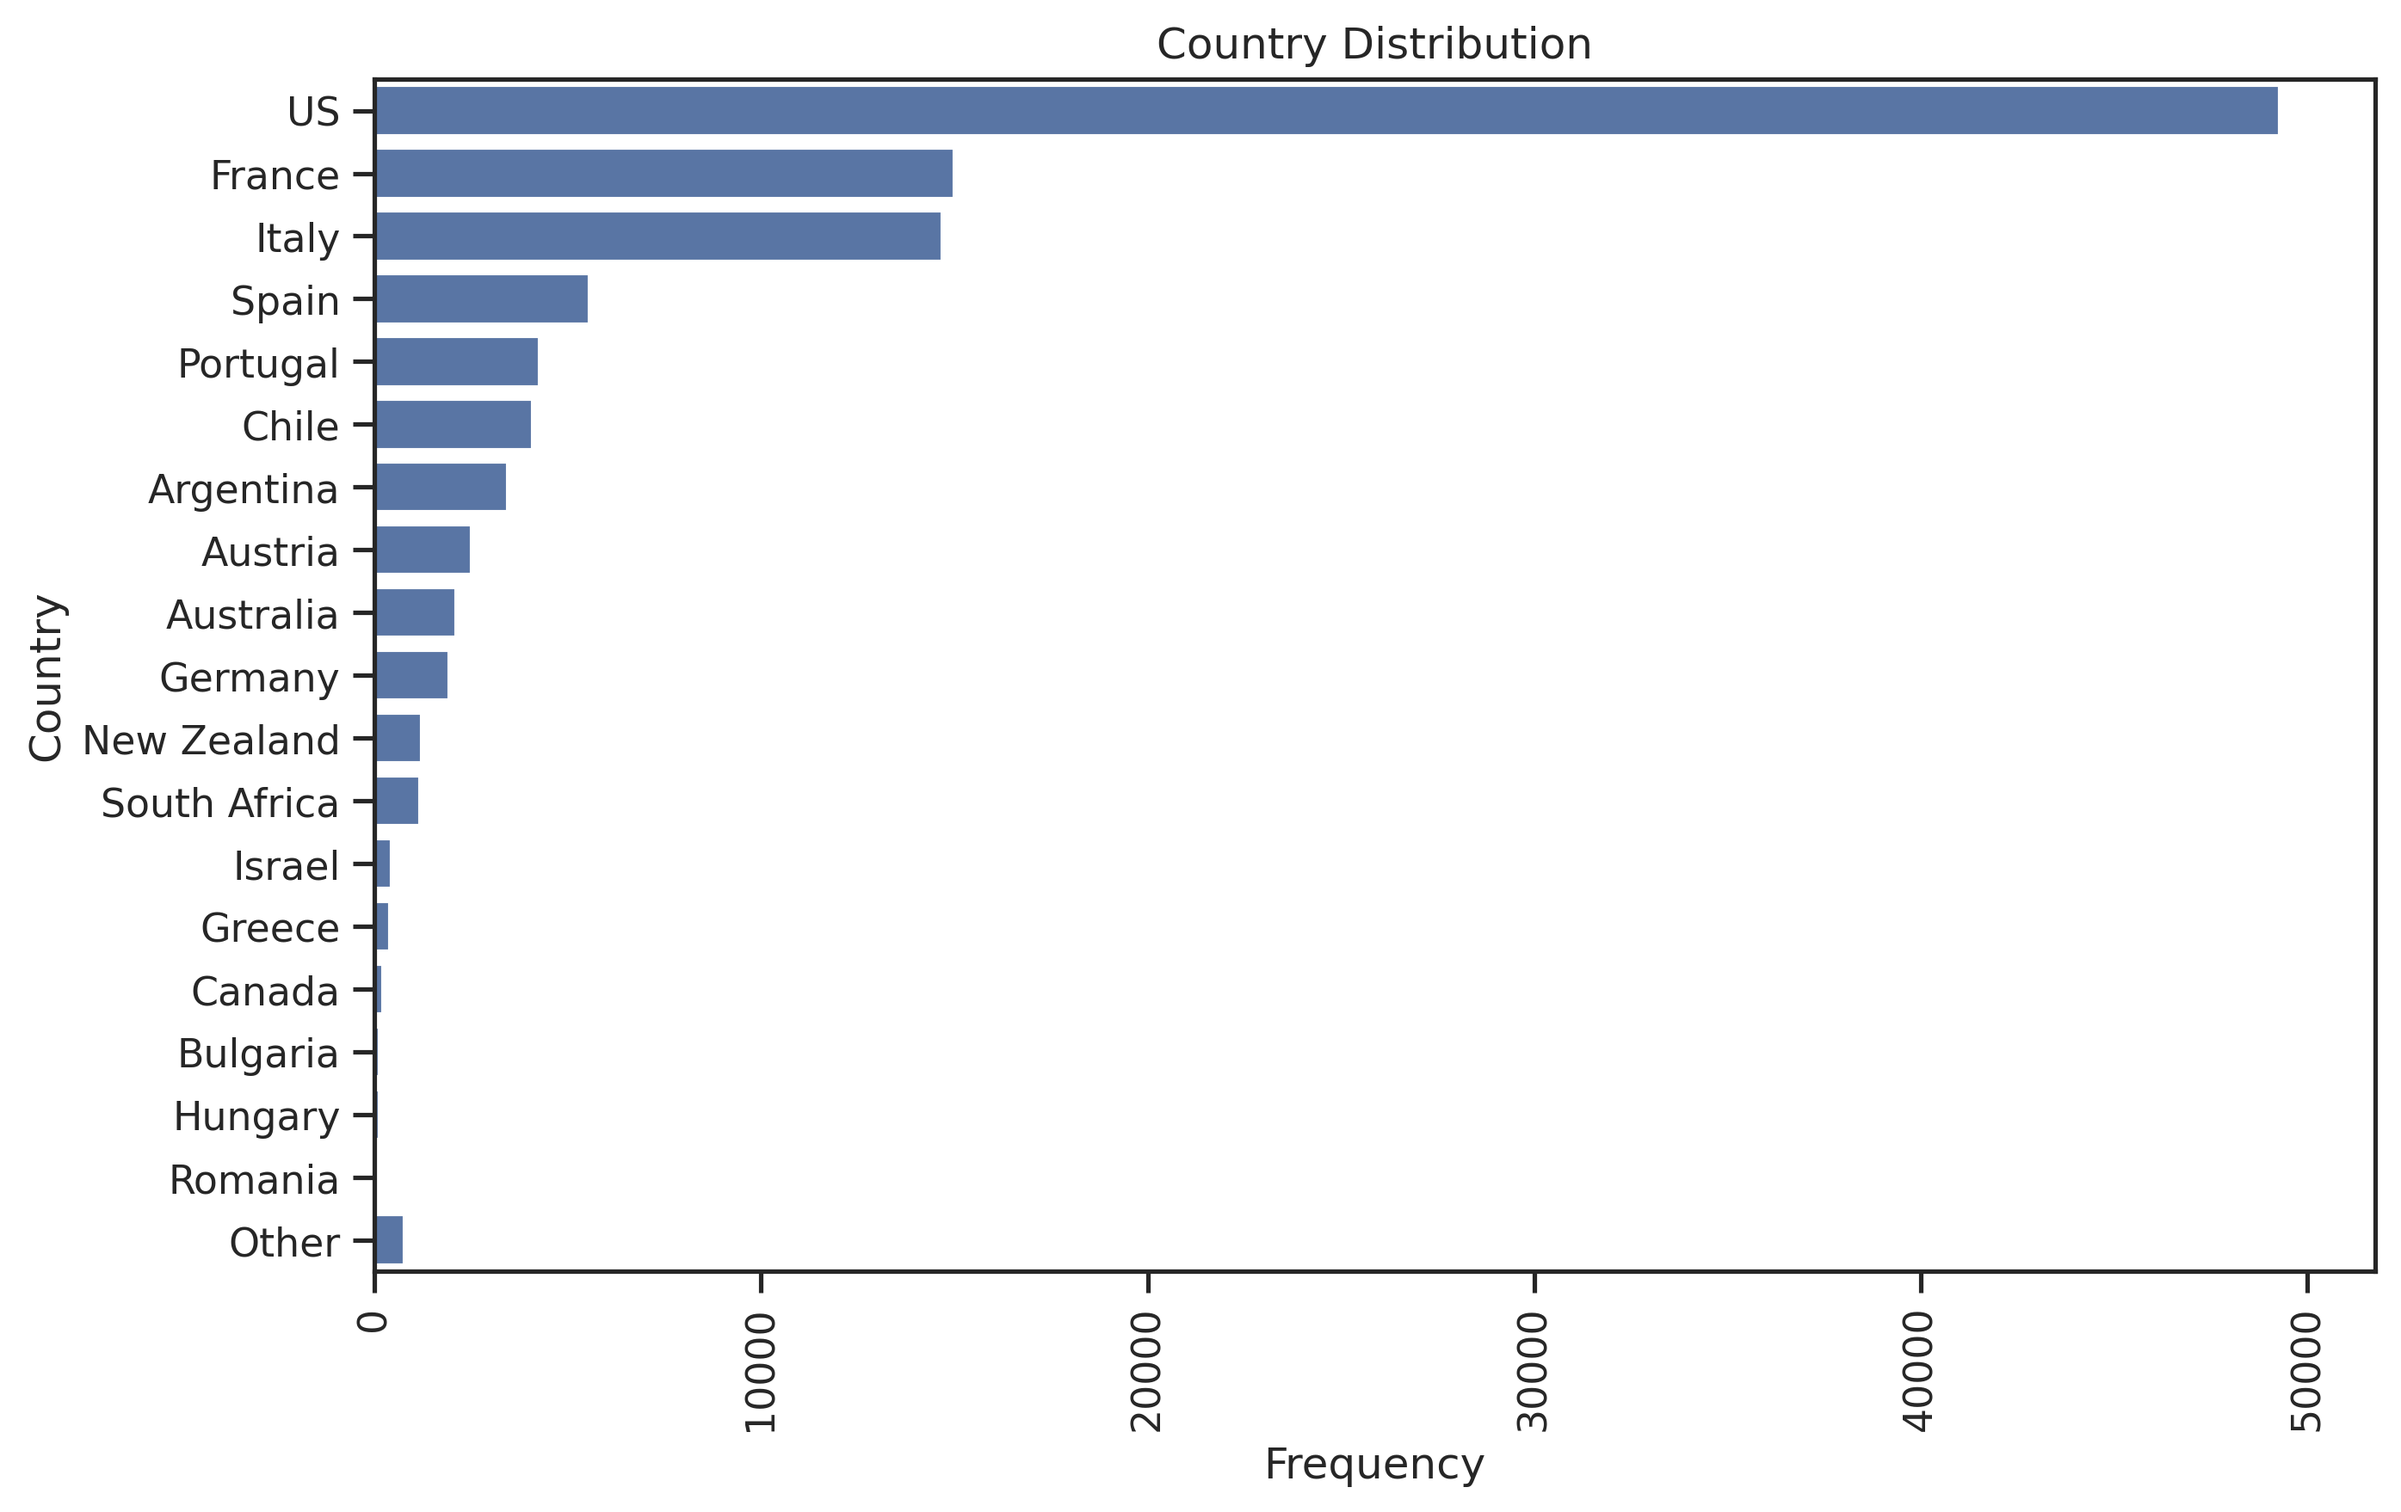
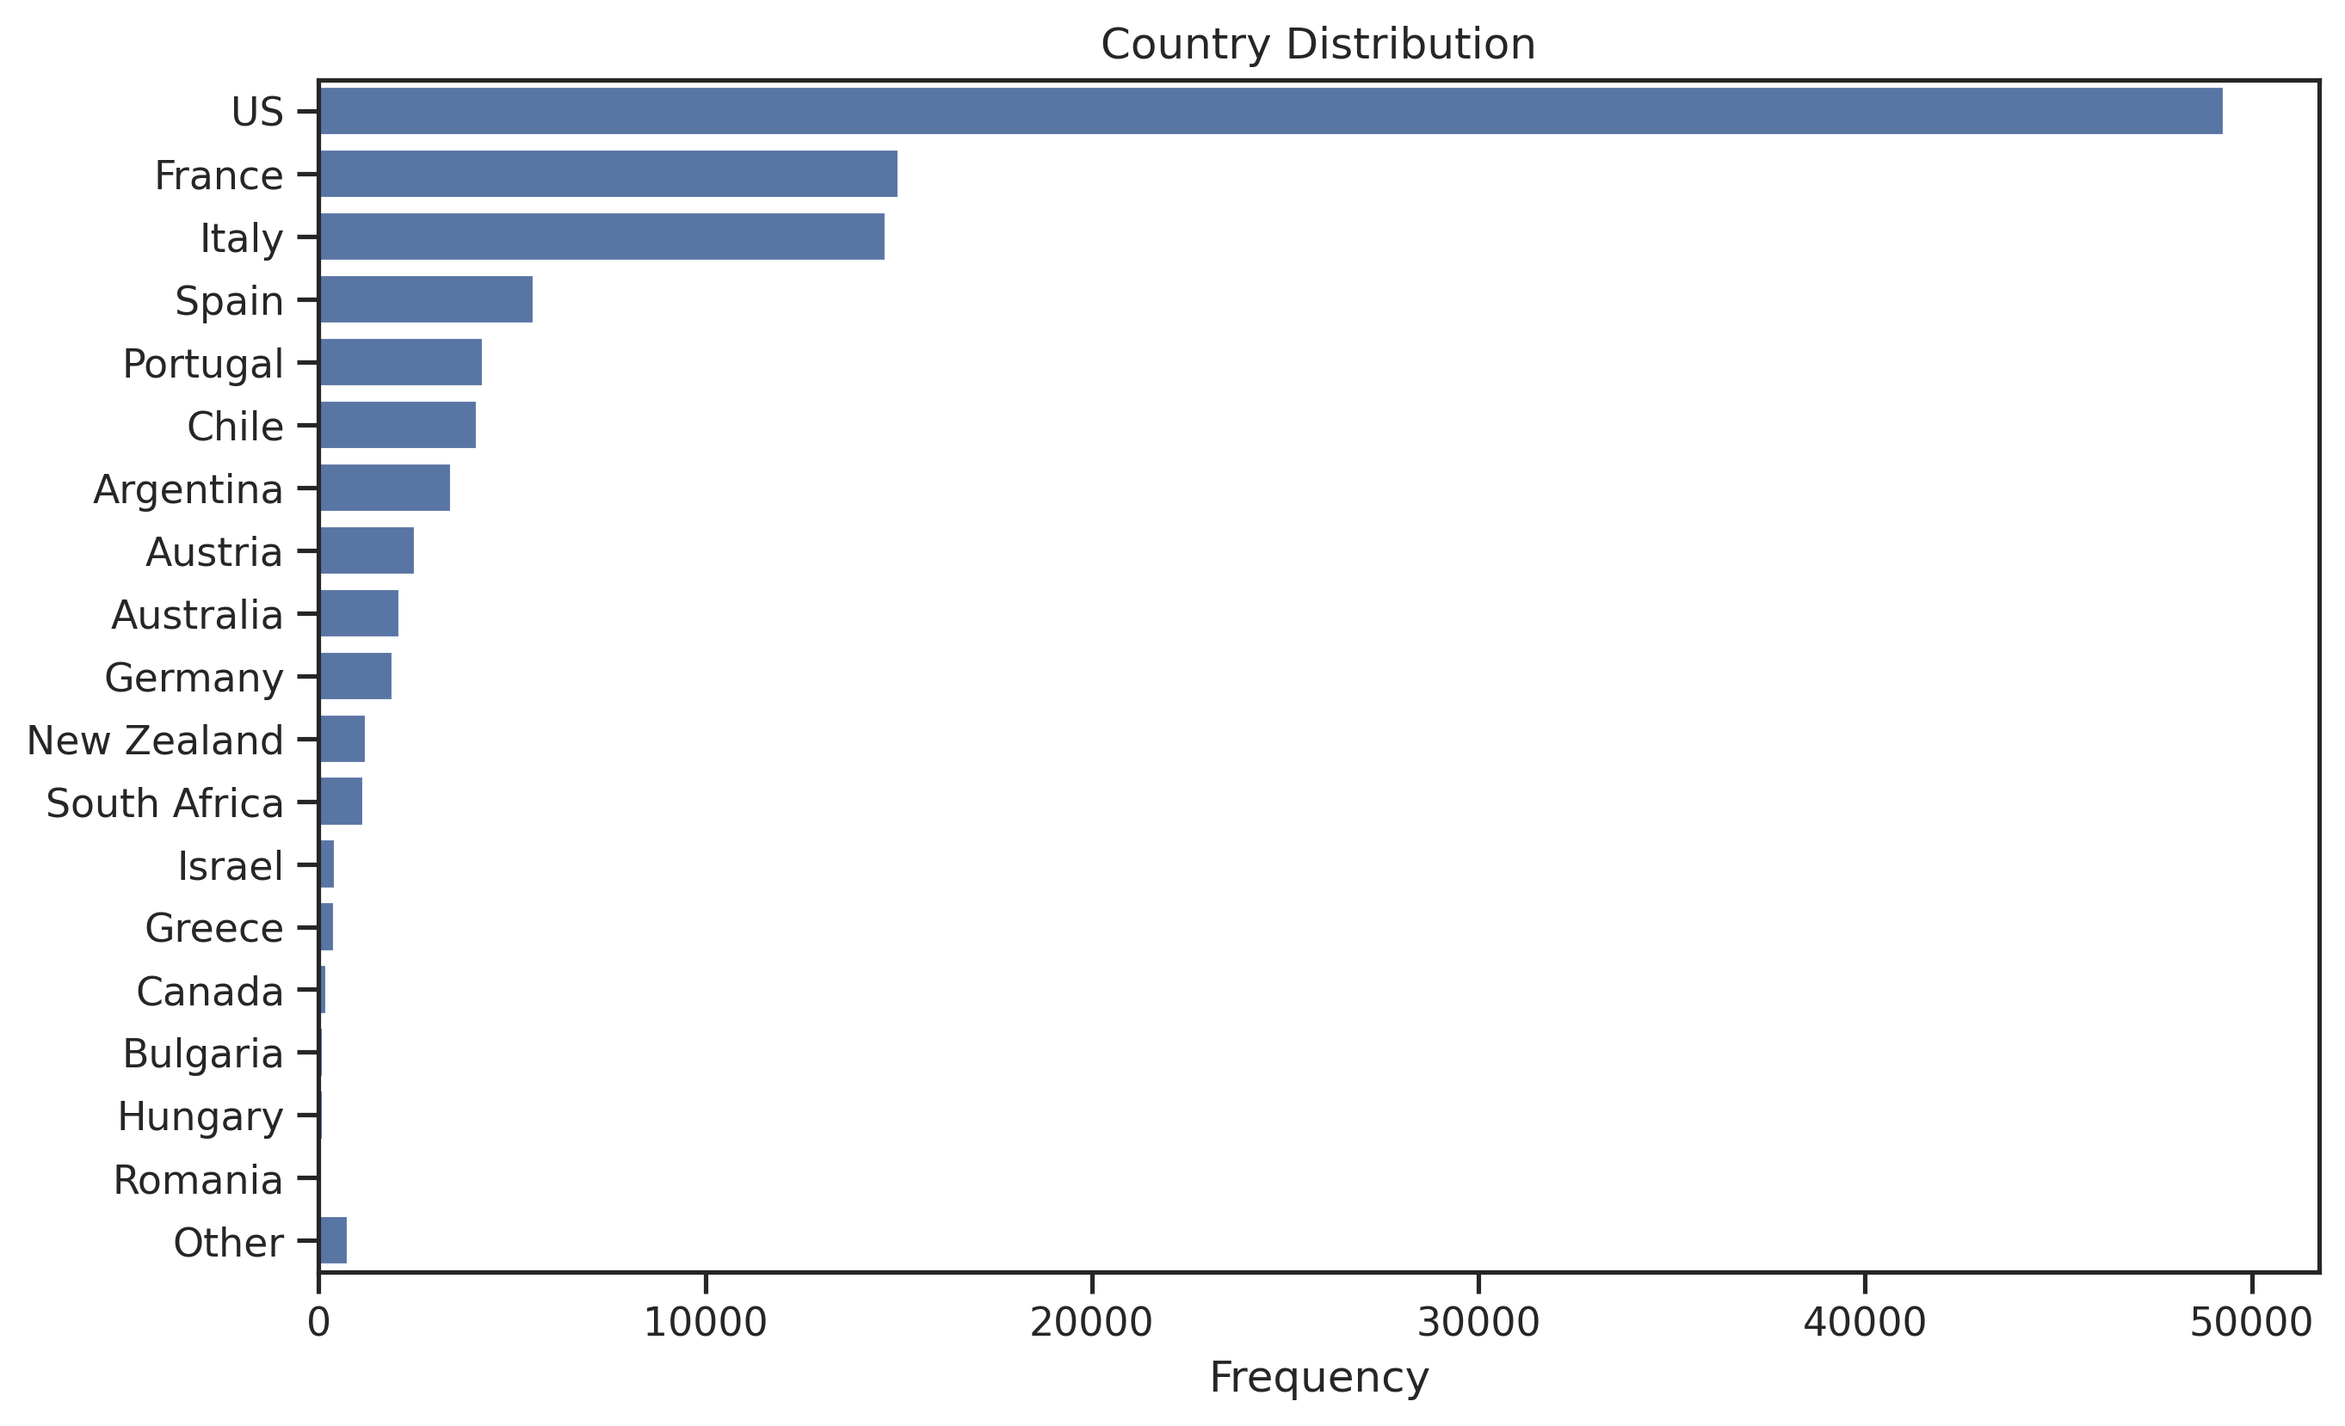
Update Figures

diff --git a/code/code.py b/code/code.py
@@ -171,9 +171,9 @@ final_counts = final_counts.reset_index(drop=True)
 
 ax = sns.barplot(data = final_counts, x = 'count', y = 'variety')
 plt.grid(False)
-plt.ylabel("Grape Variety")
+plt.ylabel("")
 plt.xlabel("Frequency")
-plt.title("Number of Wines by Grape Variety")
+plt.title("Variety Disribution")
 plt.savefig(filepath + "figures/variety_distribution.png", bbox_inches = "tight")
 plt.show()
 
@@ -193,8 +193,7 @@ final_counts = final_counts.reset_index(drop=True)
 
 ax = sns.barplot(data = final_counts, x = 'count', y = 'country')
 plt.grid(False)
-plt.xticks(rotation=90)
-plt.ylabel("Country")
+plt.ylabel("")
 plt.xlabel("Frequency")
 plt.title("Country Distribution")
 plt.savefig(filepath + "figures/country_distribution.png", bbox_inches = "tight")
